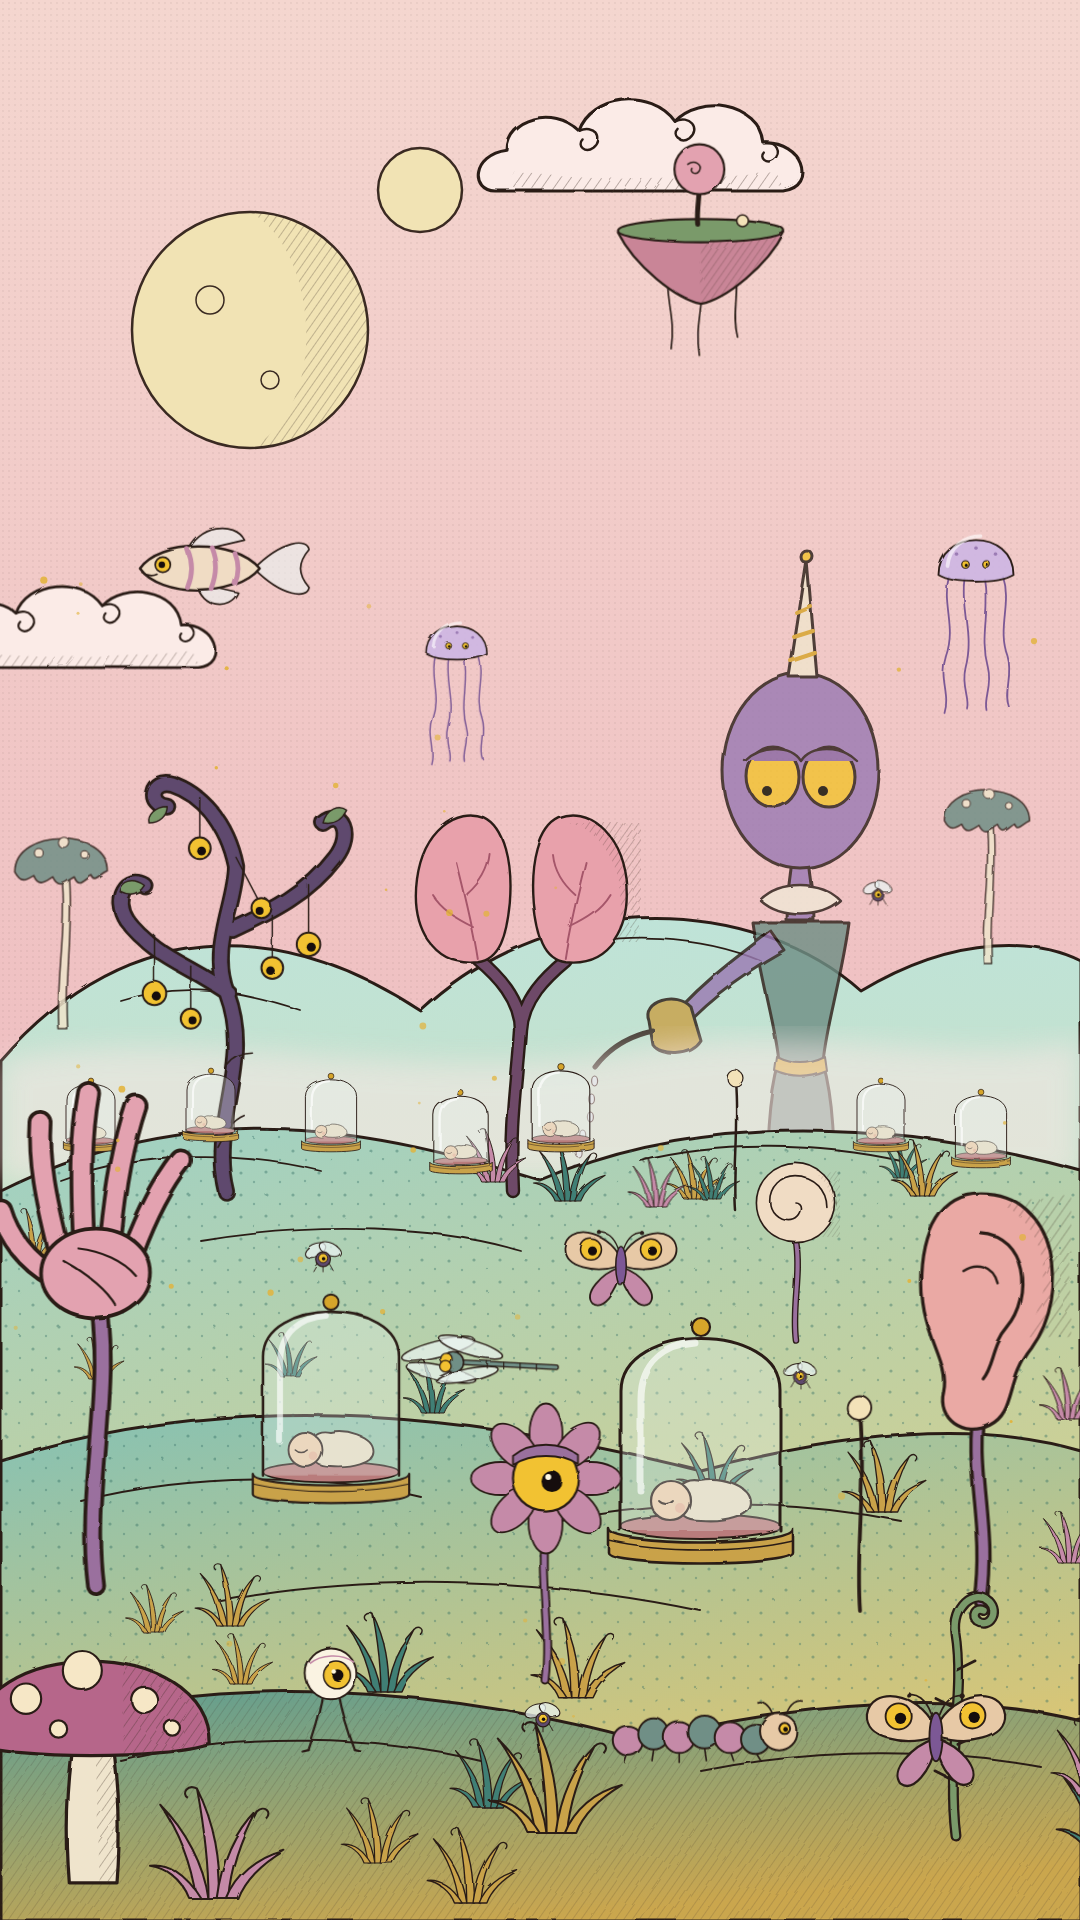
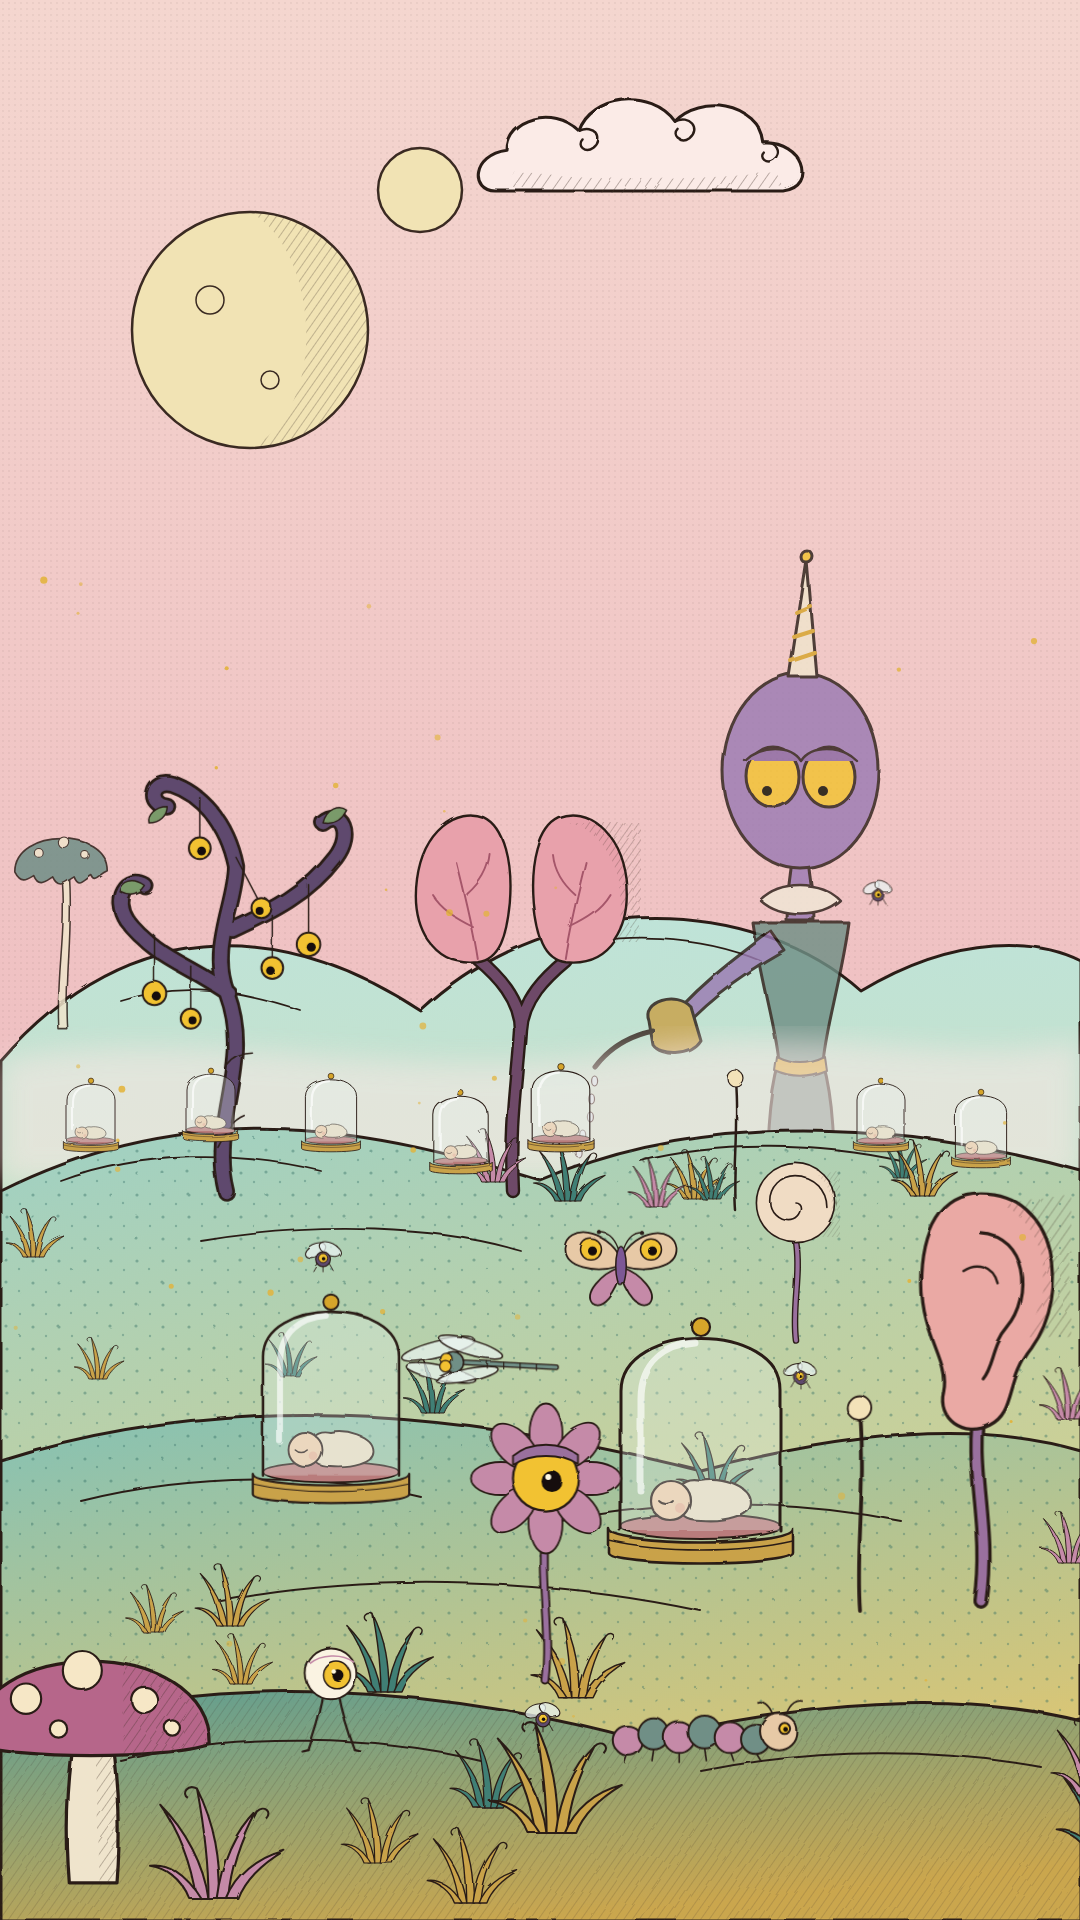
World: remove elements marked by user
Claude-Session: https://claude.ai/code/session_014pgZYAt28U3JpX5acrECz9

diff --git a/karakterler/dunya_olustur.py b/karakterler/dunya_olustur.py
@@ -316,12 +316,10 @@ o('''<g stroke="#3a2a22" stroke-width="2.5">
 
 # bulutlar, adalar, denizanaları, uçan balıklar
 o('<g filter="url(#wobble)">')
-for x,y,w in [(470,70,360),(-80,560,320)]:
+for x,y,w in [(470,70,360)]:
     o(f'<use href="#cloud" xlink:href="#cloud" x="{x}" y="{y}" width="{w}" height="{w*0.4:.0f}"/>')
-o('<use href="#island" xlink:href="#island" x="600" y="140" width="200" height="216"/>')
-for x,y,w in [(930,520,90),(420,610,72)]:
+for x,y,w in []:
     o(f'<use href="#jelly" xlink:href="#jelly" x="{x}" y="{y}" width="{w}" height="{w*2.17:.0f}"/>')
-o('<use href="#airfish" xlink:href="#airfish" x="120" y="520" width="190" height="95"/>')
 o('</g>')
 # uzak nefes alan tepeler
 o('<g filter="url(#wobble)" stroke="#2b1e18" stroke-linejoin="round" stroke-linecap="round">')
@@ -330,7 +328,7 @@ o('<path d="M120 1000 C180 980 240 990 300 1010 M560 950 C620 930 700 935 760 96
 
 
 o('<g opacity="0.85">')
-for x,b,h in [(10,1030,230),(940,965,210)]:
+for x,b,h in [(10,1030,230)]:
     w=h*0.44
     o(f'<use href="#mushtree" xlink:href="#mushtree" x="{x}" y="{b-h}" width="{w:.0f}" height="{h}"/>')
 o('</g>')
@@ -395,6 +393,7 @@ o('<path d="M80 1500 C200 1470 330 1474 420 1496 M560 1520 C680 1496 800 1500 90
 for i in range(8):
     x=random.uniform(-20,1060); y=random.uniform(1470,1700); w=random.uniform(60,110)
     c=random.choice(['#3f7f74','#c9a24a','#c58aa8'])
+    if 820 < x+w/2 < 960 and 1440 < y < 1580: continue
     o(f'<use href="#tuft" xlink:href="#tuft" x="{x:.0f}" y="{y-w*0.83:.0f}" width="{w:.0f}" height="{w*0.83:.0f}" style="color:{c}"/>')
 # ön plan fanusları
 for x,y,s in [(330,1500,0.85),(700,1560,1.0)]:
@@ -402,7 +401,6 @@ for x,y,s in [(330,1500,0.85),(700,1560,1.0)]:
     o(f'<use href="#jar" xlink:href="#jar" x="{x-w/2:.1f}" y="{y-h:.1f}" width="{w:.1f}" height="{h:.1f}"/>')
 
 # bitkiler
-o('<use href="#handplant" xlink:href="#handplant" x="-30" y="1060" width="250" height="525"/>')
 o('<use href="#earplant" xlink:href="#earplant" x="870" y="1160" width="220" height="440"/>')
 o('<use href="#eyeflower" xlink:href="#eyeflower" x="470" y="1380" width="150" height="300"/>')
 for x in [836]:
@@ -417,7 +415,6 @@ o('</g>')
 
 o('<g filter="url(#wobble)">')
 o('<use href="#bigmush" xlink:href="#bigmush" x="-40" y="1600" width="260" height="282"/>')
-o('<use href="#fern" xlink:href="#fern" x="900" y="1560" width="110" height="275"/>')
 o('<use href="#caterpillar" xlink:href="#caterpillar" x="600" y="1700" width="200" height="64"/>')
 o('<use href="#walkeye" xlink:href="#walkeye" x="300" y="1640" width="60" height="112"/>')
 for i in range(7):
@@ -426,7 +423,6 @@ for i in range(7):
     o(f'<use href="#tuft" xlink:href="#tuft" x="{x:.0f}" y="{y-w*0.83:.0f}" width="{w:.0f}" height="{w*0.83:.0f}" style="color:{c}"/>')
 # uçan böcekler
 o('<use href="#moth" xlink:href="#moth" x="560" y="1220" width="120" height="90"/>')
-o('<use href="#moth" xlink:href="#moth" x="860" y="1680" width="150" height="112"/>')
 o('<use href="#dragonfly" xlink:href="#dragonfly" x="380" y="1330" width="180" height="74"/>')
 for x,y,w in [(300,1240,46),(780,1360,40),(520,1700,44),(860,880,36)]:
     o(f'<use href="#fly" xlink:href="#fly" x="{x}" y="{y}" width="{w}" height="{w*0.75:.0f}"/>')
